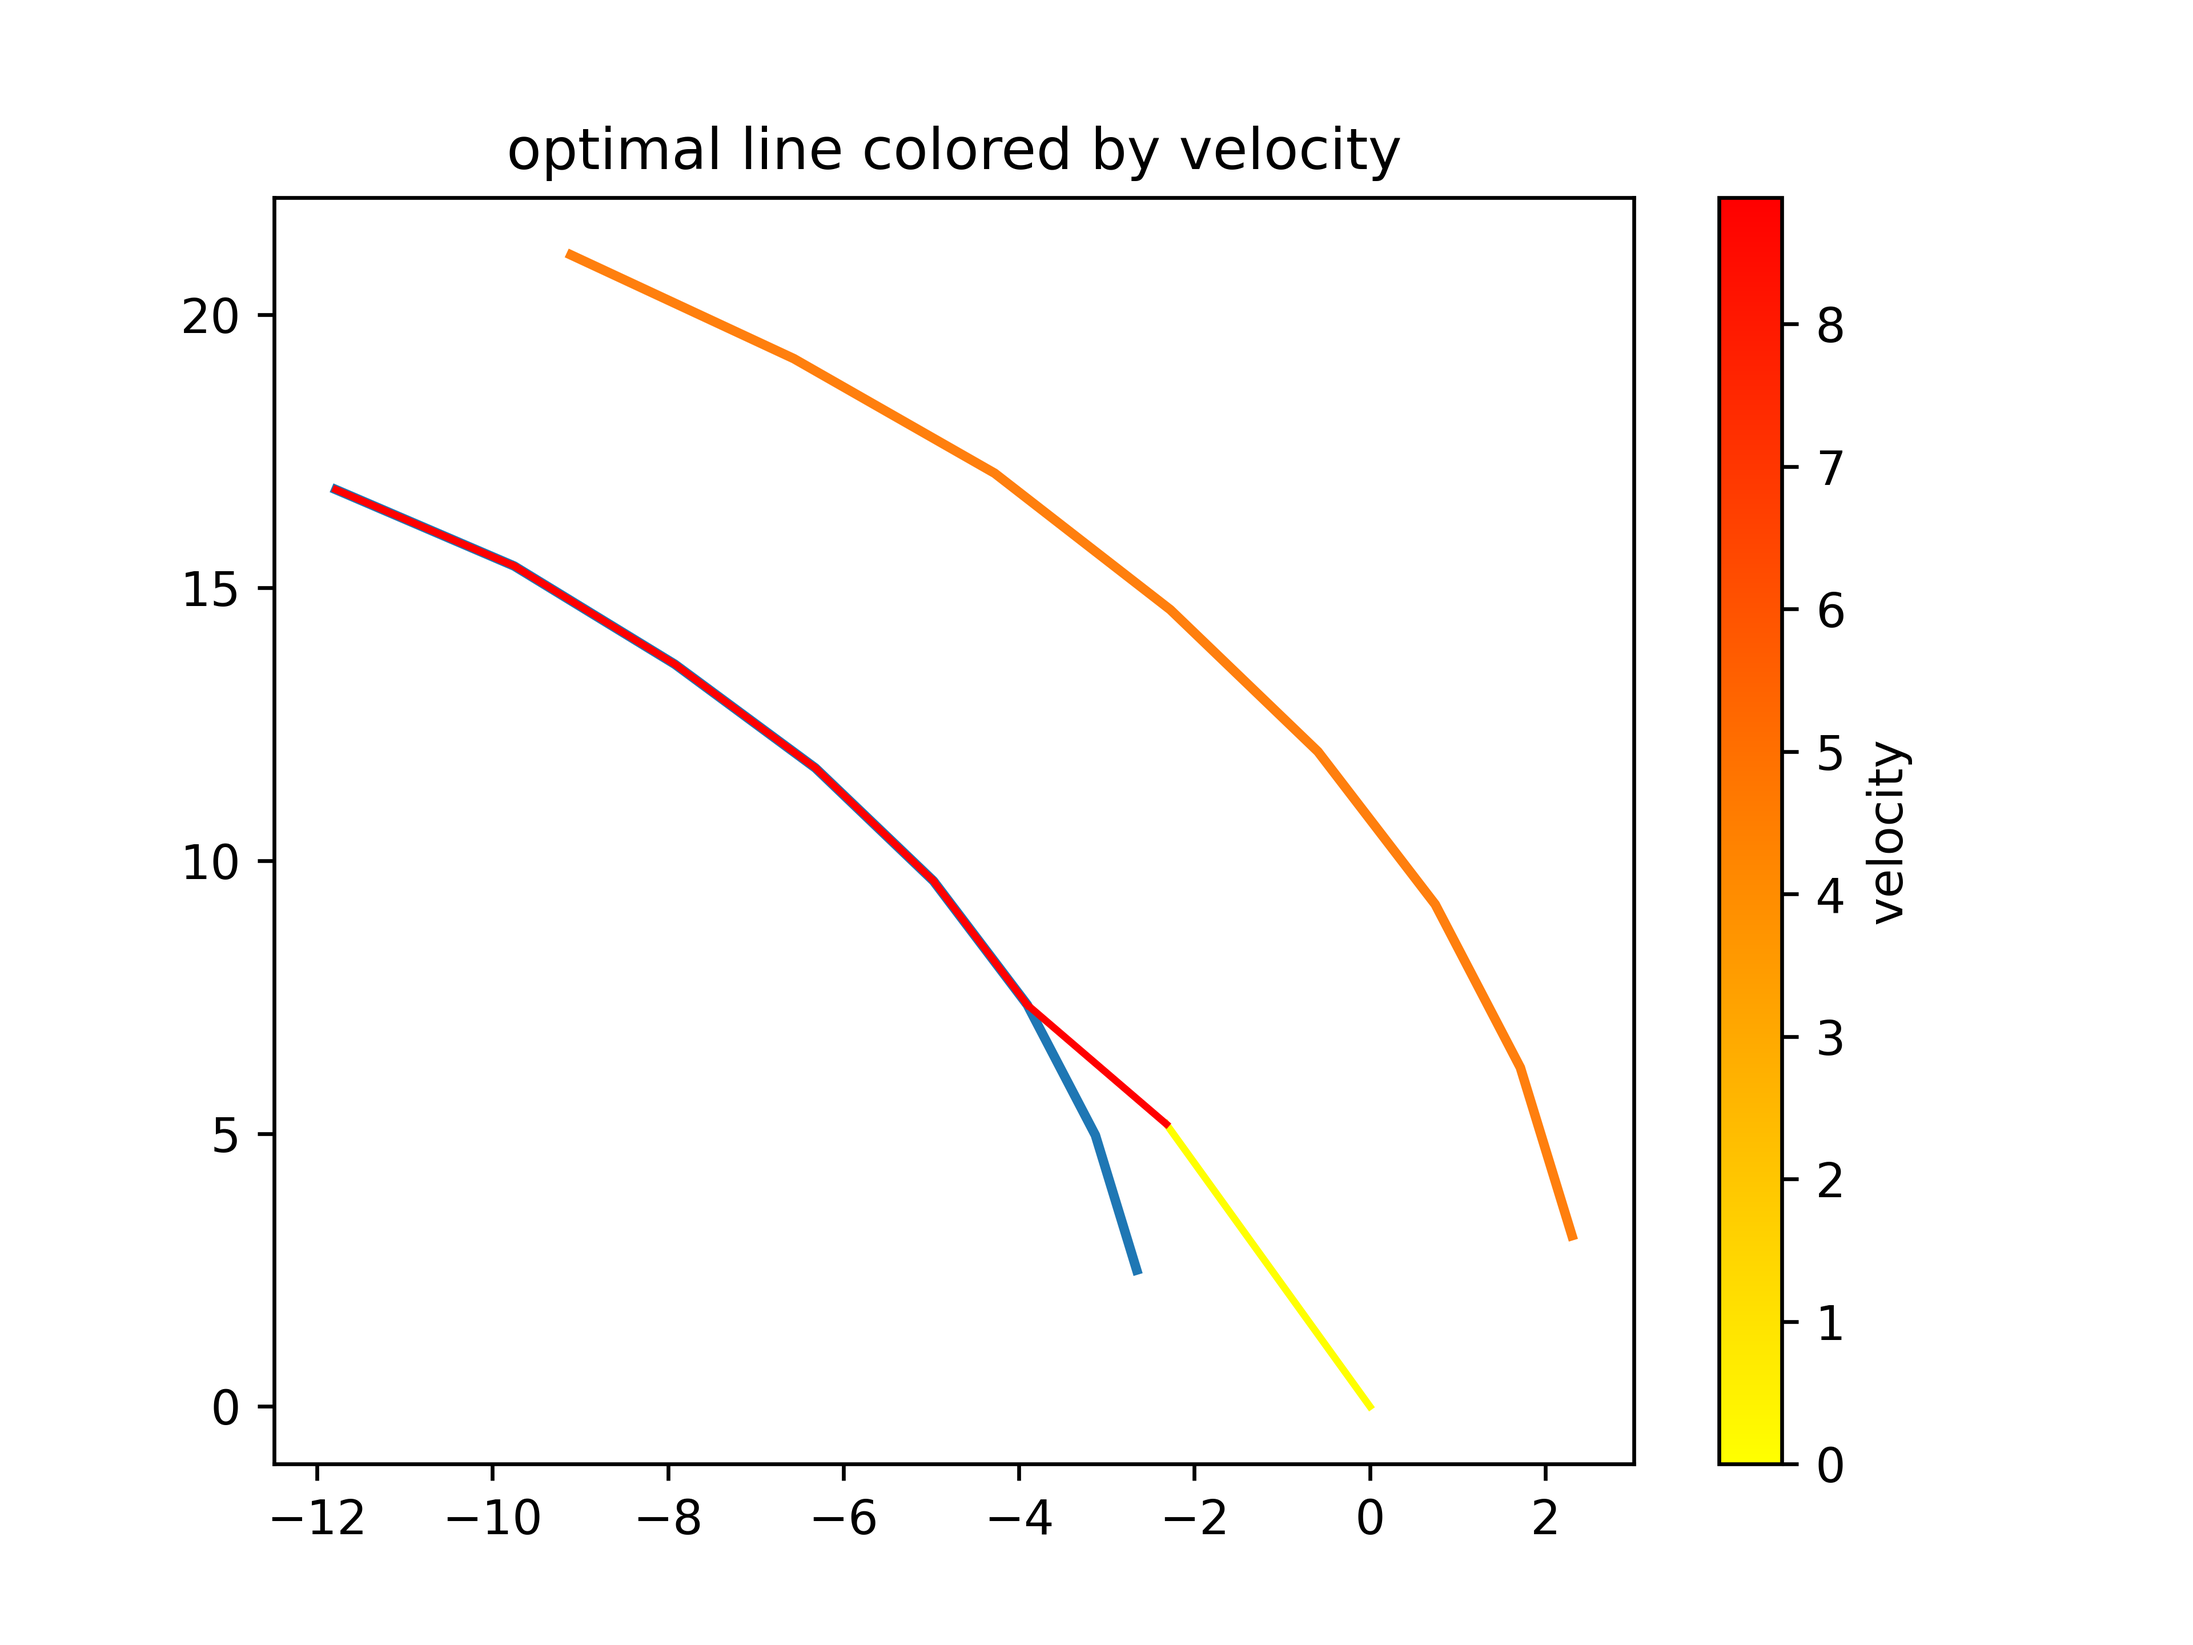
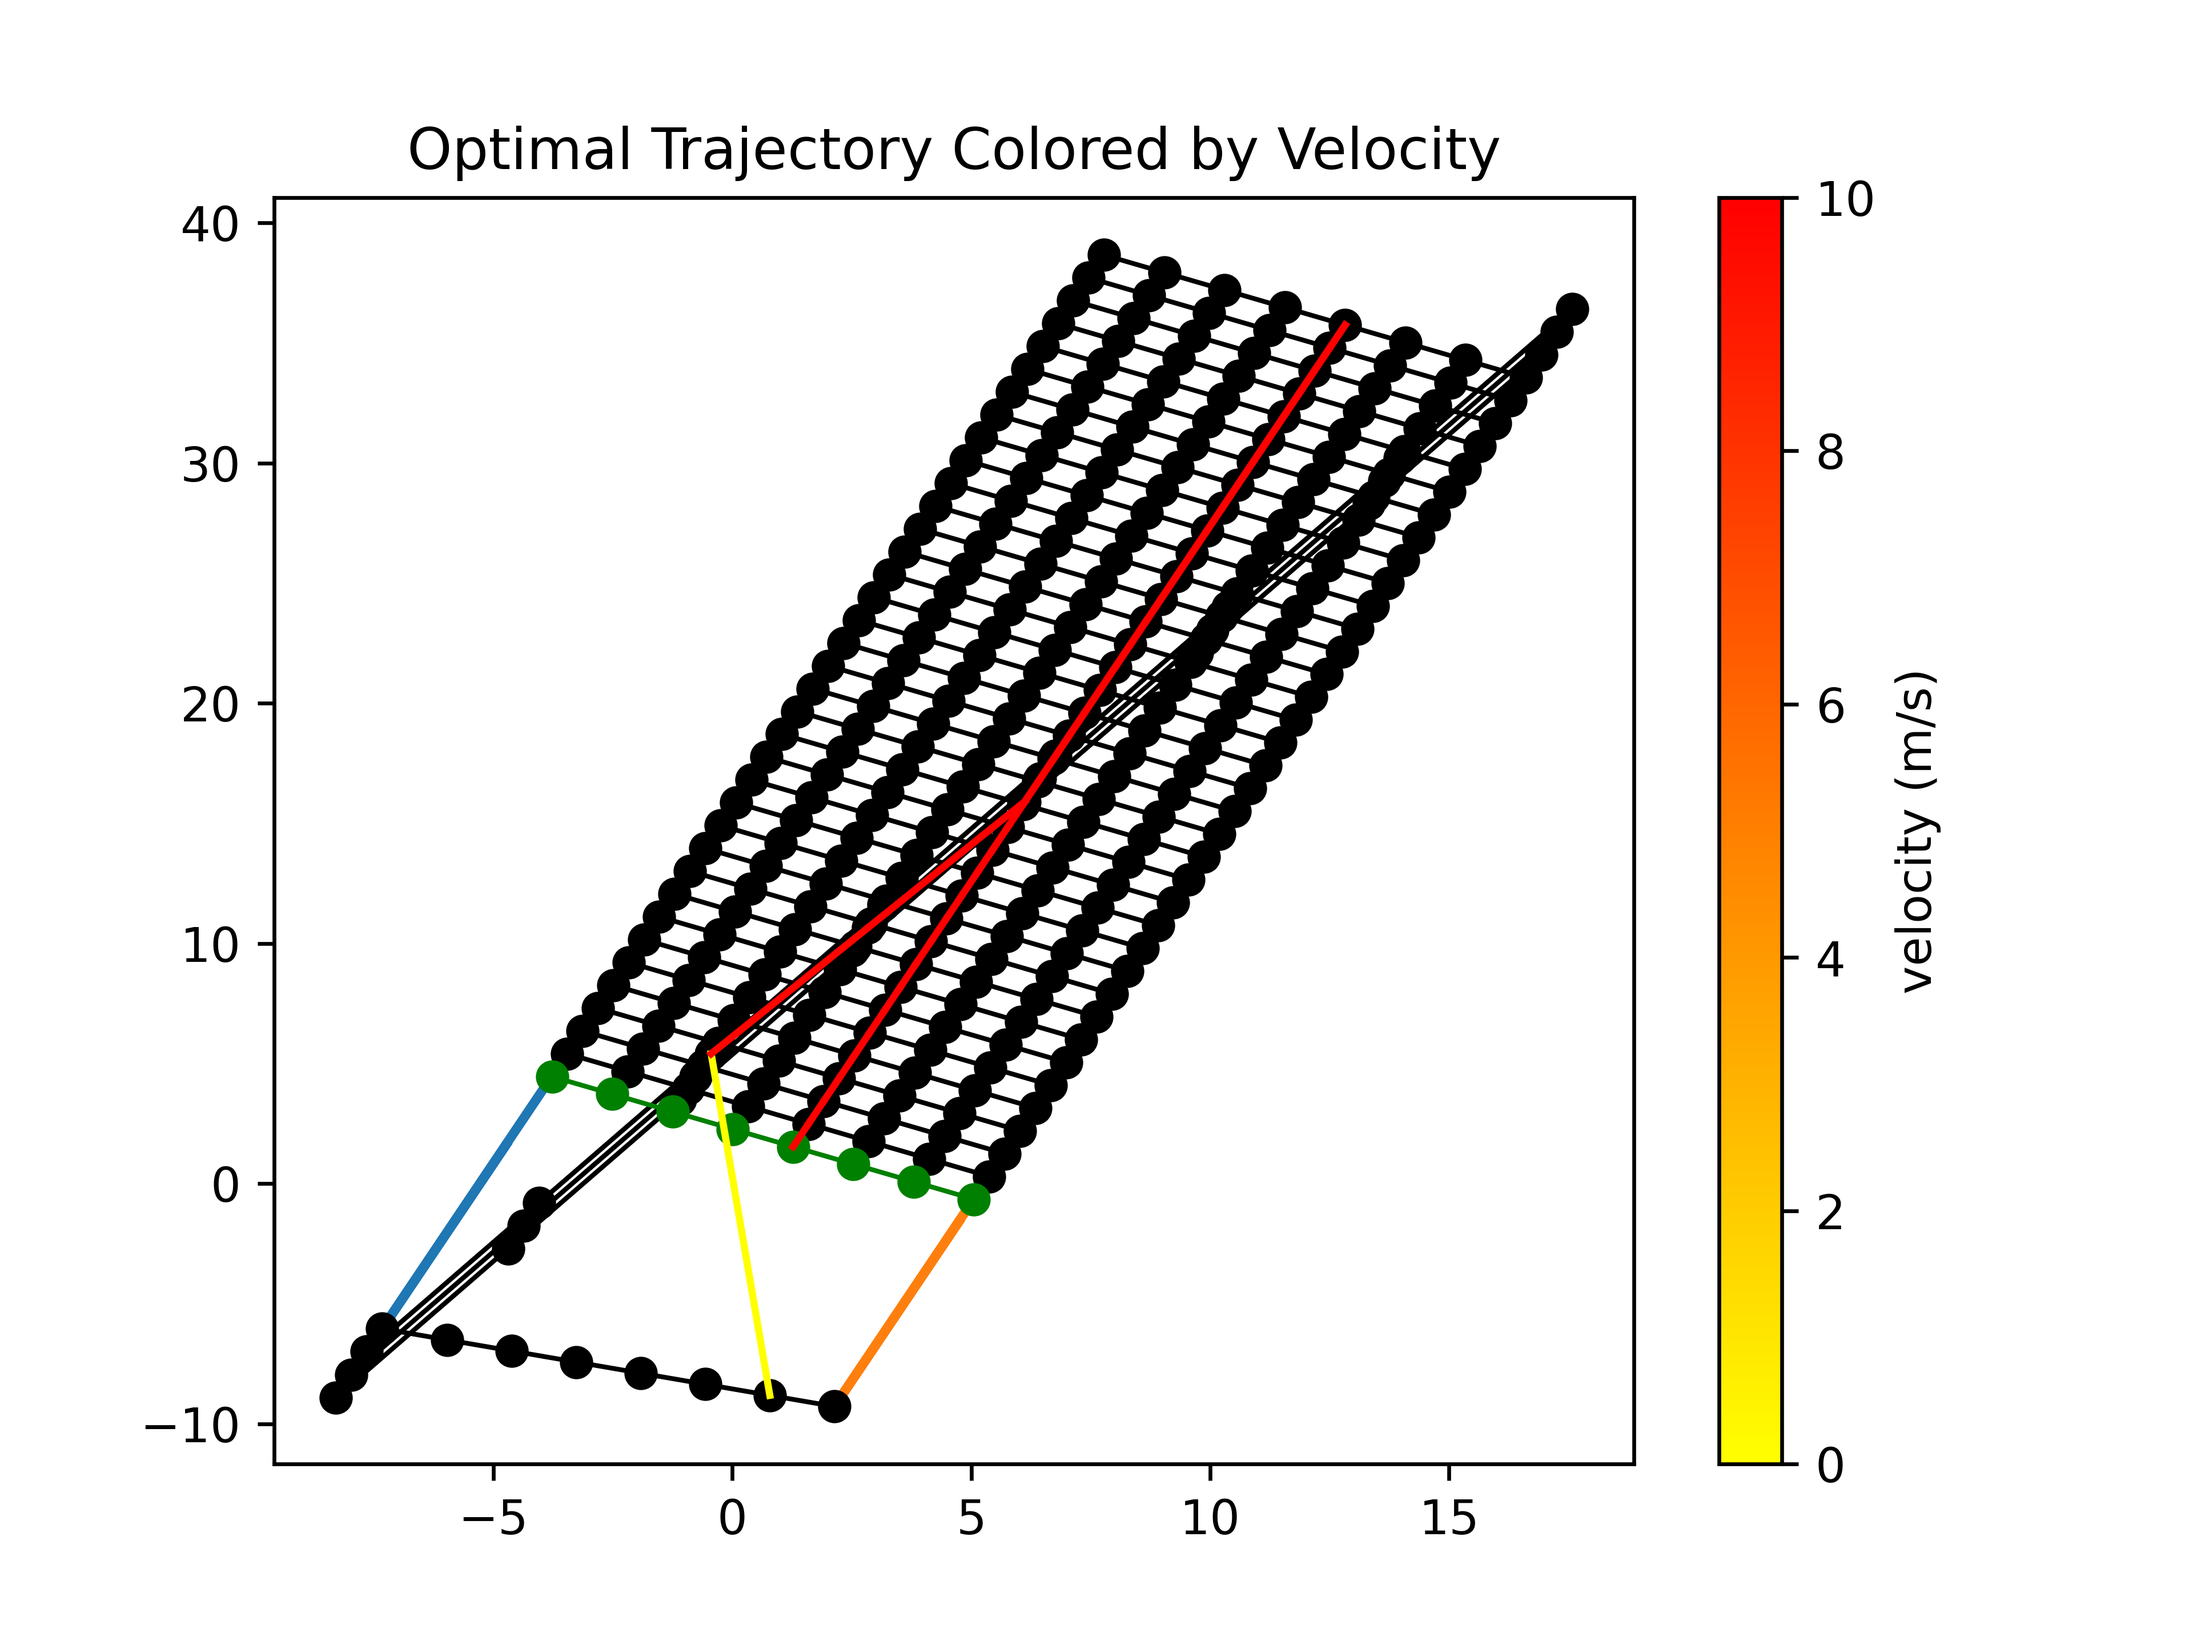
bug fixed - ideal conemap used but sim not working

diff --git a/src/planning/path_planning/path_planning/shortest_path/TrackMethods.py b/src/planning/path_planning/path_planning/shortest_path/TrackMethods.py
@@ -404,7 +404,8 @@ def optimal_path(track_name:str, df:pd.DataFrame, start_node:Node, brackets:np.a
                 current_node_list = brackets[i-1]._nodeList
                 previous_node_list = brackets[i-2]._nodeList; 
 
-            for current_node in current_node_list:
+            def process_current_node(current_node):
+            # for current_node in current_node_list:
                 # current_node._stateList=[]
                 # Initialising statelist for the current node
                 for previous_node in previous_node_list:
@@ -441,15 +442,19 @@ def optimal_path(track_name:str, df:pd.DataFrame, start_node:Node, brackets:np.a
                                 if current_state._max:
                                     # braking, optimum maximum speed state
                                     ideal_velocity = min(traction_velocity, max_va, max_velocity)
-                                    traverse_time = ((2*distance_between_nodes)/(ideal_velocity+next_node_state._velocity)) + next_node_state._cost
+                                    tmp = current_state._velocity 
+                                    current_state._velocity = ideal_velocity
+                                    traverse_time = PathHelpers.getTraverseTime(distance_between_nodes, current_state, next_node_state)
                                     if traverse_time < current_state._cost:
                                         current_state._velocity = ideal_velocity
                                         current_state._cost = traverse_time
                                         current_state._nextState = next_node_state
+                                    else:
+                                        current_state._velocity = tmp
 
                                 # non ideal state
-                                if min_va <= current_state._velocity < min(traction_velocity, max_va, max_velocity):
-                                    traverse_time = ((2*distance_between_nodes)/(current_state._velocity+next_node_state._velocity)) + next_node_state._cost
+                                elif min_va <= current_state._velocity < min(traction_velocity, max_va, max_velocity):
+                                    traverse_time = PathHelpers.getTraverseTime(distance_between_nodes, current_state, next_node_state)
                                     if traverse_time < current_state._cost:
                                         # print('called')
                                         current_state._cost = traverse_time
@@ -460,6 +465,9 @@ def optimal_path(track_name:str, df:pd.DataFrame, start_node:Node, brackets:np.a
             # executor = concurrent.futures.ProcessPoolExecutor(8)
             # futures = [executor.submit(process_current_node, current_node) for current_node in current_node_list]
             # concurrent.futures.wait(futures)
+            _ = list(map(process_current_node, current_node_list))
+            # _ = [process_current_node(n) for n in current_node_list]
+
         # get optimal/best path by iterating through EVERY SINGLE state LOL
         print("getting best path")
         best_xy, best_velocities, cost = getBestStates(start_node)
@@ -473,10 +481,19 @@ def optimal_path(track_name:str, df:pd.DataFrame, start_node:Node, brackets:np.a
             TrackHelpers.Plot(False, df.inner, "inner boundary")
             # outer boundary
             TrackHelpers.Plot(False, df.outer, "outer boundary")
+            # nodes
+            for i,B in enumerate(brackets):
+                all_nodes = B._nodeList
+                if i == len(brackets)-1:
+                    col = "green"
+                else:
+                    col = "black"
+                TrackHelpers.Plot(True, all_nodes, "nodes", col)
+
             # optimal path
             im = TrackHelpers.plotOptimal(best_xy, best_velocities, "optimal race line")
-            plt.colorbar(im, label='velocity')
-            plt.title("optimal line colored by velocity")
+            plt.colorbar(im, label='velocity (m/s)')
+            plt.title("Optimal Trajectory Colored by Velocity")
 
             p.savefig(f"{os.path.dirname(__file__)}/Race lines/{track_name}.png", dpi=600)
             plt.show()

diff --git a/src/planning/path_planning/path_planning/trajectory_shortest_path.py b/src/planning/path_planning/path_planning/trajectory_shortest_path.py
@@ -38,14 +38,14 @@ class shortest_path(NODE):
         self._save_track = self.get_parameter("save_track").get_parameter_value().bool_value
         # car properties
         self._CAR = {
-            "mass": 795.0,  # kg
-            "μ": 1.6*0.8, # static friction coefficient - dimensionless
-            "α": PathHelpers.noughtTo60(1.7), 
-            "α_d": 39.0,
-            "max steer angle": 16.0,    # degrees
-            "max velocity": 80.0,  # m/s
-            "tire width": 18/39.37, # in m (18 inches here)
-            "wheelbase": 3.6,    # wheelbase length (m? - LIAM TO CONFIRM)
+            "mass": 84.5,  # kg
+            "μ": 0.6, # static friction coefficient - dimensionless
+            "α": PathHelpers.noughtTo60(3.0), 
+            "α_d": 15.0,    # max decel in m/s^2
+            "max steer angle": 25.0, # degrees
+            "max velocity": 10.0,  # m/s
+            "tire width": 0.11, # in m 
+            "wheelbase": 1.5,    # wheelbase length (in m)
         }
 
         # subscribers
@@ -90,13 +90,13 @@ class shortest_path(NODE):
 
         # create brackets
         print("CREATING BRACKETS")
-        brackets = TrackMethods.getBrackets(df, 5, plot=self._plot)
-
-        # velocity_range = [0.01, 8, 16, 24, 32, 40]# velocities in meters per second
+        brackets = TrackMethods.getBrackets(df, 6, plot=self._plot)
 
         # compute optimal path
         print("COMPUTING OPTIMAL PATH")
-        start_node = self.get_start_node(starting_point=car_position)   # transformed car position
+        # car_position = np.array(car_position) + [0,10]
+        current_position, brackets = self.getStartingPosition(car_position, brackets)
+        start_node = self.get_start_node(starting_point=current_position)   # transformed car position
         # start_node = brackets[0]._nodeList[4]
         start_node._stateList.append(State(start_node, np.array([np.cos(np.pi/2),np.sin(0)]), 0.0, np.Inf))
         print("starting inner distance: ", start_node._innerDistance)
@@ -140,6 +140,21 @@ class shortest_path(NODE):
         # self.get_logger().info(f"steering angle published: {steering_angle}")
 
         return
+    
+    def getStartingPosition(self, car_position, brackets):
+        best_dist = np.Inf
+        best_bracket_idx = 0
+        for i, B in enumerate(brackets):
+            dists = [TrackHelpers.getDistance(car_position, node._xy) for node in B._nodeList]
+            if min(dists) < best_dist:
+                best_dist = min(dists)
+                best_bracket_idx = i
+                starting_point = brackets[i]._nodeList[np.argmin(dists)]._xy
+        # delete brackets before the starting position
+        brackets = brackets[best_bracket_idx:]
+
+        return starting_point, brackets
+
     
     def get_boundaries(self, cones):
         # loop through each cone

diff --git a/src/planning/path_planning/path_planning/shortest_path/main.py b/src/planning/path_planning/path_planning/shortest_path/main.py
@@ -11,14 +11,14 @@ def main():
     import numpy as np
 
     CAR = {
-        "mass": 795.0,  # kg
-        "μ": 1.6*0.8, # static friction coefficient - dimensionless
-        "α": PathHelpers.noughtTo60(1.7), 
-        "α_d": 39.0,
-        "max steer angle": 16.0,    # degrees
-        "max velocity": 80.0,  # m/s
-        "tire width": 18/39.37, # in m (18 inches here)
-        "wheelbase": 3.6,    # wheelbase length (m? - LIAM TO CONFIRM)
+        "mass": 84.5,  # kg
+        "μ": 0.6, # static friction coefficient - dimensionless
+        "α": PathHelpers.noughtTo60(3.0), 
+        "α_d": 15.0,    # max decel in m/s^2
+        "max steer angle": 25.0, # degrees
+        "max velocity": 10.0,  # m/s
+        "tire width": 0.11, # in m 
+        "wheelbase": 1.5,    # wheelbase length (in m)
     }
 
     # choose track
@@ -33,9 +33,9 @@ def main():
 
     # create brackets
     print("CREATING BRACKETS")
-    brackets = TrackMethods.getBrackets(df, 10, True)
-    d_start = 1950
-    d_end = 2000
+    brackets = TrackMethods.getBrackets(df, 8, False)
+    d_start = 300
+    d_end = 400
     section_of_track = True
     if section_of_track:
         df, brackets = TrackMethods.getSectionofTrack(df, np.array(brackets), d_start, d_end)

diff --git a/src/planning/path_planning/path_planning/shortest_path/PathHelpers.py b/src/planning/path_planning/path_planning/shortest_path/PathHelpers.py
@@ -35,3 +35,13 @@ def noughtTo60(nought_to_60):
     Converts nought to 60 to linear acceleration
     """
     return 60/nought_to_60 * 0.44704
+
+def getTraverseTime(distance_between_nodes, current_state, next_node_state):
+    dist = distance_between_nodes
+    c_vel = current_state._velocity # current state velocity
+    n_vel = next_node_state._velocity   # next state velocity
+    n_cost = next_node_state._cost  # next state cost
+    dist_bound = max(next_node_state._node._innerDistance, next_node_state._node._outerDistance)
+
+    objective = ((2*dist)/(c_vel+n_vel)) + n_cost + np.sqrt(dist_bound)
+    return objective

diff --git a/src/moa/moa_bringup/launch/sim_launch.py b/src/moa/moa_bringup/launch/sim_launch.py
@@ -4,11 +4,11 @@ import launch_ros.actions
 def generate_launch_description():
     return launch.LaunchDescription([
         # cone map
-        # launch_ros.actions.Node(
-        #     package='cone_mapping',
-        #     executable='dbscan',
-        #     name='dbscan',
-        # ),
+        launch_ros.actions.Node(
+            package='cone_mapping',
+            executable='dbscan',
+            name='dbscan',
+        ),
 
         # path optimization
         launch_ros.actions.Node(
